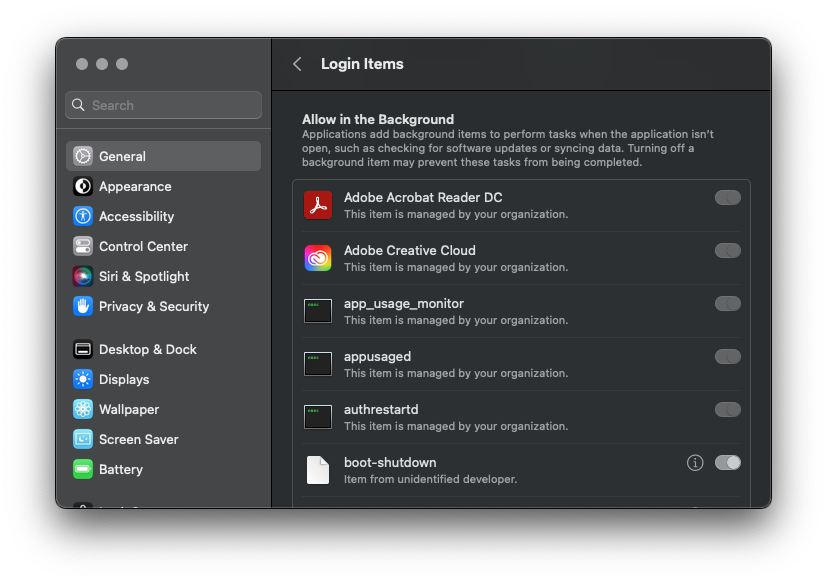
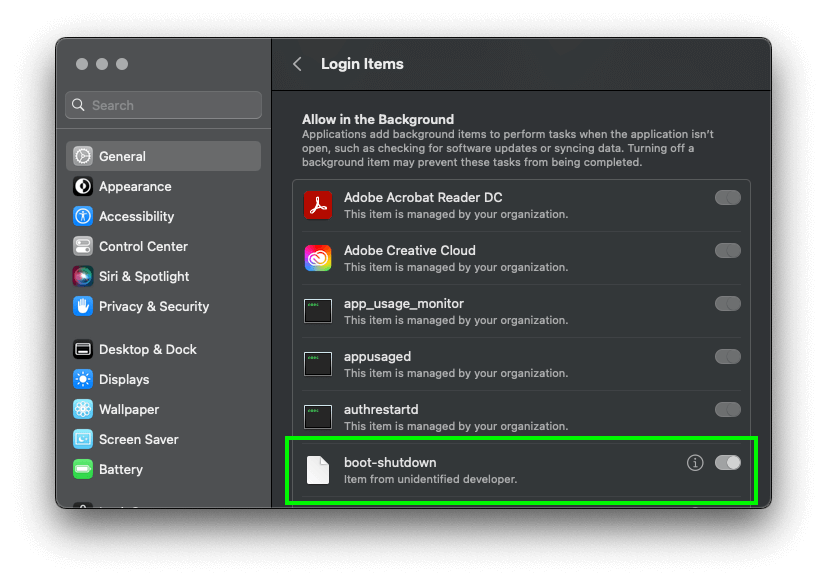
Cleaning Up Documentation

Changed region(s): [[0.3325, 0.7423, 0.9371, 0.866], [0.3628, 0.433, 0.393, 0.4639]]

diff --git a/docs/install-launch-agents.md b/docs/install-launch-agents.md
@@ -7,32 +7,35 @@ Install Launch Agents
 
 > All we have left to do now is install the Launch Agents to handle starting & stopping your sandbox.
 
+Make sure you are in the root of this project, and run the installer:
+
 ```bash
-# Run Installer
 ./install
 ```
 
 Security Overview
 ---
 
-> Your companies IT Department might want to know a few things about what this tool is doing.
+> Your IT Department might want to know a few things about what this tool is doing.
 
 ### Overview
 
-**NOTE:** This tool does not require a superuser or root level access to install.
+**NOTE:** This tool does not require a superuser or root-level access to install.
 
 Our [./install](../install) script does the following:
 
 1. Uses [Homebrew](https://brew.sh) to install [sleepwatcher](https://formulae.brew.sh/formula/sleepwatcher) to add event listeners for Awake & Sleep states
-2. Adds [sdx-start](../bin/sdx-start) bash script to start a Sandbox after a computer boots or wakes up
-3. Adds [sdx-stop](../bin/sdx-stop) bash script to stop a Sandbox when computer shuts down or goes to sleep
+2. Adds [sdx-start](../bin/sdx-start) bash script to start a Sandbox after the computer boots or wakes up
+3. Adds [sdx-stop](../bin/sdx-stop) bash script to stop a Sandbox when the computer shuts down or goes to sleep
 4. Adds [boot-shutdown](../bin/boot-shutdown) bash script to call above scripts on shutdown and boot
 5. Adds [com.sfccdevops.sleepwatcher.plist](../launchd/com.sfccdevops.sleepwatcher.plist) Launch Agent for Sleepwatcher events
 6. Adds [com.sfccdevops.sandbox.plist](../launchd/com.sfccdevops.sandbox.plist) Launch Agent for Boot and Shutdown events
 
 ### Installation Prompts
 
-After running the installer, you will see a notice for a new Background Items entry for [boot-shutdown](../bin/boot-shutdown).  This was registered by the [com.sfccdevops.sandbox.plist](../launchd/com.sfccdevops.sandbox.plist) launch agent when we requested to be notified when the computer started up, or is about to shut down.
+After running the installer, you will see a notice for a new `Background Items Added` entry for [boot-shutdown](../bin/boot-shutdown).  This was registered by the [com.sfccdevops.sandbox.plist](../launchd/com.sfccdevops.sandbox.plist) Launch Agent when we requested to be notified as the computer started or was about to shut down.
+
+Clicking this notice will open the Login Items, where our [boot-shutdown](../bin/boot-shutdown) script is listed.
 
 ![background-items](./img/security-background-items.png "background-items")
 
@@ -42,4 +45,4 @@ Clicking this notice will open the Login Items, where you will see our [boot-shu
 
 ---
 
-[![Previous Step](https://img.shields.io/badge/Previous-121212.svg?logo=github&style=for-the-badge)](./fetch-sandbox-uuid.md) &nbsp; [![Next Step](https://img.shields.io/badge/All_Done-1aa0db.svg?logo=github&style=for-the-badge)](../README)
+[![Previous Step](https://img.shields.io/badge/Previous-121212.svg?logo=github&style=for-the-badge)](./fetch-sandbox-uuid.md) &nbsp; [![Next Step](https://img.shields.io/badge/All_Done-1aa0db.svg?logo=github&style=for-the-badge)](../README.md)

diff --git a/docs/create-api-client.md b/docs/create-api-client.md
@@ -5,30 +5,32 @@
 Create API Client
 ===
 
-If you have not already created your API Client ID, you'll need to do that to use this tool:
+> If you have not already created your API Client ID, you'll need to do that to use this tool.
+
+Sorry in advance for this one. It's a beast, but you only have to do it once ;)
 
 1. Visit the [API Client](https://account.demandware.com/dw/account/APIAdmin) Tab on your SFCC [Account Manager](https://account.demandware.com/dw/account/Home) `*`
-2. Click `Add API Client` button in top right
-3. For `Display Name` enter something that identifies your sandbox, e.g. `ods-jane-doe`
-4. For `Description` write something helpful, e.g. `ODS API User for Jane Doe`
+2. Click `Add API Client` button in the top right
+3. For `Display Name`, enter something that identifies your Sandbox, e.g., `ods-jane-doe`
+4. For `Description`, write something helpful, e.g., `ODS API User for Jane Doe`
 5. Enter a secure password for `Password` ( this is your `SFCC_OAUTH_CLIENT_SECRET` )
-6. For `Access Control` check the `Enabled` checkbox
+6. For `Access Control`, check the `Enabled` checkbox
 7. Click the `Add` button on `Organizations`
-8. Select the checkbox next to your Organization name
+8. Select the checkbox next to your Organization's name
 9. Click the `Add` button to Assign the Organization
 10. Click the `Add` button on `Roles`
 11. Select the checkbox for `Sandbox API User`
 12. Click the `Add` button to Assign the Role
-13. Click the Filter Icon to the right of `No role scope defined`
+13. Click the Filter Icon to the right of the `No role scope defined`
 14. Select your Organization from the list
 15. Choose your Sandbox from the select list
 16. Click the `Add` button to add your Sandbox as a Sandbox API User
 17. Set `Token Endpoint Auth Method` to `client_secret_post`
 18. Set `Access Token Format` to `UUID - Deprecated. JWT recommended`
-19. You an leave everything else with default settings
+19. You can leave everything else with default settings
 20. Press `Save`
 
-After Saving, you will be taken back to the list of API Clients ID's.  Find the one you just created and open it.  At the top of the page you will see your `API Client`
+After Saving, you will be returned to the API Clients ID list. Find the one you just created and open it. At the top of the page, you will see your `API Client`.
 
 *Screenshot:*
 

diff --git a/README.md b/README.md
@@ -25,7 +25,9 @@ Getting Setup
 
 > Download the source code and follow these instructions to get setup:
 
-[![Download](https://img.shields.io/badge/Download-blue.svg?logo=github&style=for-the-badge)](https://github.com/sfccdevops/sandbox-launchd/releases/latest)
+[![Download](https://img.shields.io/badge/Download-121212.svg?logo=github&style=for-the-badge)](https://github.com/sfccdevops/sandbox-launchd/releases/latest)
+
+### Installation Steps
 
 1. [Install SFCC-CI](docs/install-sfcc-ci.md)
 2. [Create API Client](docs/create-api-client.md)
@@ -34,16 +36,18 @@ Getting Setup
 5. [Fetch Sandbox UUID](docs/fetch-sandbox-uuid.md)
 6. [Install Launch Agents](docs/install-launch-agents.md)
 
+[![Get Started](https://img.shields.io/badge/First_Step-1aa0db.svg?logo=github&style=for-the-badge)](docs/install-sfcc-ci.md)
+
 ### Extra Goodies
 
-If you happen to use [Alfred](https://www.alfredapp.com) on your computer, we are also releasing a [Custom Workflow](./Sandbox.alfredworkflow) that allows you to Start & Stop your Sandbox, as well as use your mobile device to trigger your workflow remotely.
+If you happen to use [Alfred](https://www.alfredapp.com) on your computer, we are also releasing a [Custom Workflow](https://github.com/sfccdevops/sandbox-launchd/raw/main/Sandbox.alfredworkflow) that allows you to Start & Stop your Sandbox, and use your mobile device to trigger your workflow remotely.
 
 [![Alfred Workflow](https://img.shields.io/badge/Alfred_Workflow-5C1F87.svg?logo=alfred&logoColor=white&style=for-the-badge)](docs/alfred-workflow.md)
 
 Contributing
 ---
 
-> Interested in making this tool better?  Fork this Repository and we'll gladly accept Pull Requests.
+> Are you interested in making this tool better?  Fork this Repository, and we'll gladly accept Pull Requests.
 
 [![Contribution Guide](https://img.shields.io/badge/Contribution_Guide-EEEEEE.svg?logo=github&logoColor=black&style=for-the-badge)](https://github.com/sfccdevops/sandbox-launchd/blob/develop/.github/CONTRIBUTING.md)
 

diff --git a/docs/alfred-workflow.md b/docs/alfred-workflow.md
@@ -10,7 +10,7 @@ Alfred Workflow
 Installation
 ---
 
-[![Download Workflow](https://img.shields.io/badge/Download_Workflow-5C1F87.svg?logo=alfred&logoColor=white&style=for-the-badge)](../Sandbox.alfredworkflow)
+[![Download Workflow](https://img.shields.io/badge/Download_Workflow-5C1F87.svg?logo=alfred&logoColor=white&style=for-the-badge)](https://github.com/sfccdevops/sandbox-launchd/raw/main/Sandbox.alfredworkflow)
 
 ### Usage
 
@@ -22,7 +22,7 @@ Installation
 
 1. Open Alfred
 2. Click Remote Icon in Left Column
-3. Click the `[+]` button at bottom of list to add a New Remote
+3. Click the `[+]` button at the bottom of the list to add a New Remote
 4. Select: `Workflows` > `Sandbox` > `Sandbox`
 5. You can now manage your sandbox from your phone ;)
 
@@ -30,4 +30,4 @@ Installation
 
 ---
 
-[![README](https://img.shields.io/badge/README-121212.svg?logo=github&style=for-the-badge)](../README)
+[![README](https://img.shields.io/badge/README-121212.svg?logo=github&style=for-the-badge)](../README.md)

diff --git a/docs/install-sfcc-ci.md b/docs/install-sfcc-ci.md
@@ -5,13 +5,20 @@
 Install SFCC-CI
 ===
 
-> In order to connect to our sandbox, we'll need to install Salesforce's SFCC CI tool.
+> We'll need to install Salesforce's SFCC-CI tool to connect to our sandbox.
+
+Install Salesforce Commerce Cloud CLI Globally
 
 ```bash
-# Install Salesforce Commerce Cloud CLI Globally
 npm install -g sfcc-ci
+```
+
+Now we can check that it was installed correctly and verify we get the help message:
+
+```bash
+sfcc-ci --help
 ```
 
 ---
 
-[![Previous Step](https://img.shields.io/badge/README-121212.svg?logo=github&style=for-the-badge)](../README) &nbsp; [![Next Step](https://img.shields.io/badge/Next_Step-1aa0db.svg?logo=github&style=for-the-badge)](./create-api-client.md)
+[![Previous Step](https://img.shields.io/badge/README-121212.svg?logo=github&style=for-the-badge)](../README.md) &nbsp; [![Next Step](https://img.shields.io/badge/Next_Step-1aa0db.svg?logo=github&style=for-the-badge)](./create-api-client.md)

diff --git a/docs/fetch-sandbox-uuid.md b/docs/fetch-sandbox-uuid.md
@@ -7,19 +7,19 @@ Fetch Sandbox UUID
 
 > Now that we've verified everything is working with SFCC-CI, we can get our Sandbox UUID.
 
+Let's get a list of sandboxes our API Client ID has permission to access:
+
 ```bash
-# Verify we can see a list of sandboxes
 sfcc-ci sandbox:list
 ```
 
-Using the table that was generated in the command above, look for your sandbox number in the `instance` column.  For example, if your sandbox starts with `abcd-001` your `instance` will be `001`.
+Using the table generated in the command above, look for your sandbox number in the `instance` column.  For example, if your sandbox starts with `abcd-001` your `instance` will be `001`.
 
 Copy the `id` from the `id` column for your sandbox.
 
 Now we can paste our Sandbox UUID as the value for `SFCC_SANDBOX_ID` in our `~./zshrc` file.
 
 ```bash
-# UUID of Sandbox
 export SFCC_SANDBOX_ID="9p8o7n6m-5l4k-3j2i-1h0g-9f8e7d6c5b4a"
 ```
 

diff --git a/docs/adding-environment-variables.md b/docs/adding-environment-variables.md
@@ -5,16 +5,18 @@
 Adding Environment Variables
 ===
 
-> We'll need the following Environmental Variables to be set before things will work.  
+> We'll need the following Environmental Variables to be set before things will work.
 
-Add these under the existing `export` in your `~/.zshrc`
+Add the following under the existing exports listed in your `~/.zshrc`
 
 ```bash
-# SFCC CI Variables
+# SFCC-CI Variables
 export SFCC_OAUTH_CLIENT_ID="1a2b3c4d-5e6f-7g8h-9i0j-1k2l3m4n5o6p"
 export SFCC_OAUTH_CLIENT_SECRET="my^super*secret+password"
 export SFCC_SANDBOX_ID=""
 ```
+
+### What do these do?
 
 * `SFCC_OAUTH_CLIENT_ID` - This is your "API Client" that was generated earlier
 * `SFCC_OAUTH_CLIENT_SECRET` - This is the password you entered earlier

diff --git a/docs/test-sfcc-ci.md b/docs/test-sfcc-ci.md
@@ -5,22 +5,15 @@
 Test SFCC-CI
 ===
 
-> We should be ready to test out that we have SFCC-CI installed correctly.
+> We should be ready to test that we have SFCC-CI installed correctly.
 
-Let's up a new terminal window and run the following commands:
+Let's check that our API Client Authentication information was entered correctly:
 
 ```bash
-# Login with API Client Data we just entered
 sfcc-ci client:auth
 ```
 
-This command should output:
-
-```text
-Authentication succeeded
-```
-
-If it didn't, head back through the first few steps and make sure you setup everything correctly.
+If you did not get a response of `Authentication succeeded`, head back through the first few steps and ensure you set up everything correctly.
 
 ---
 
